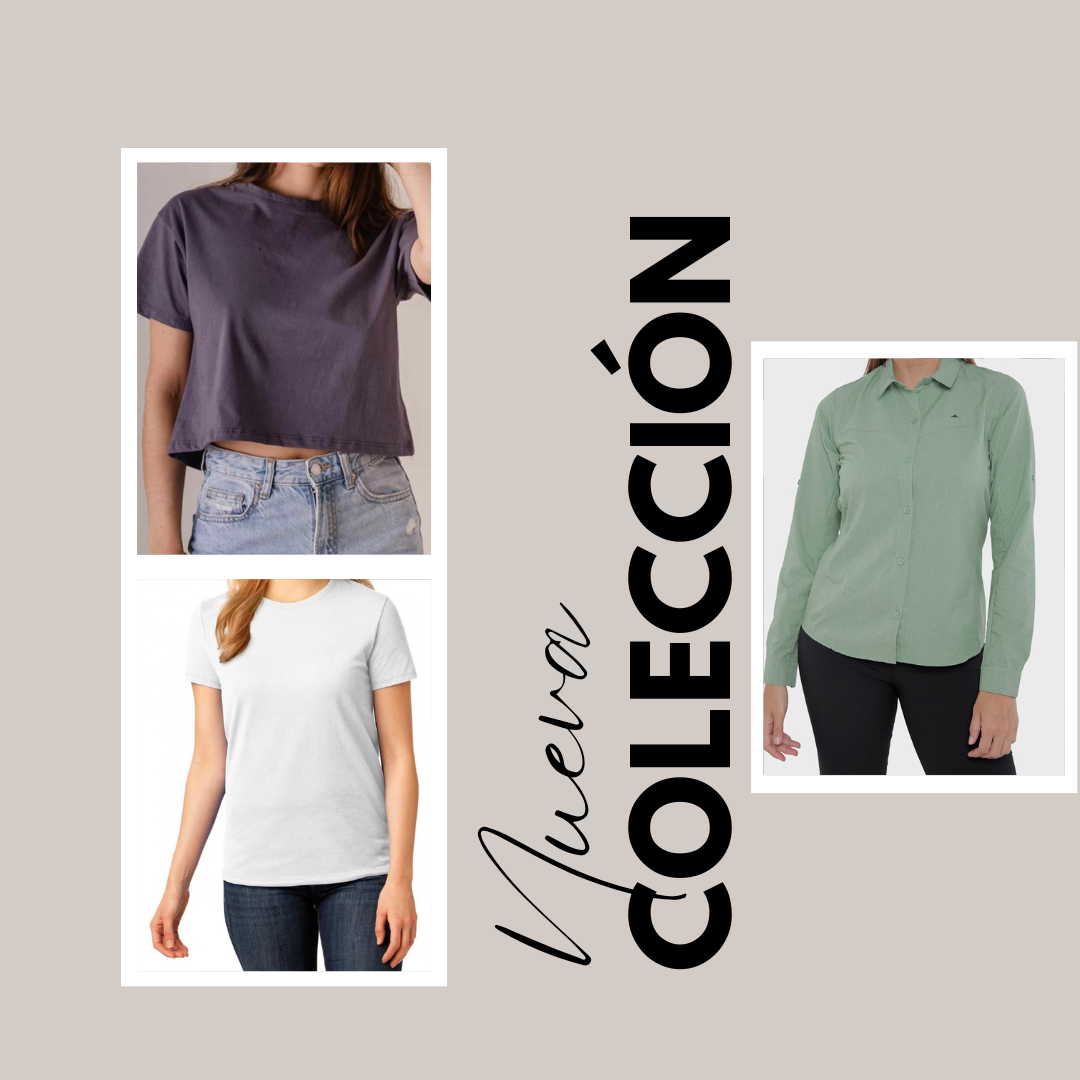
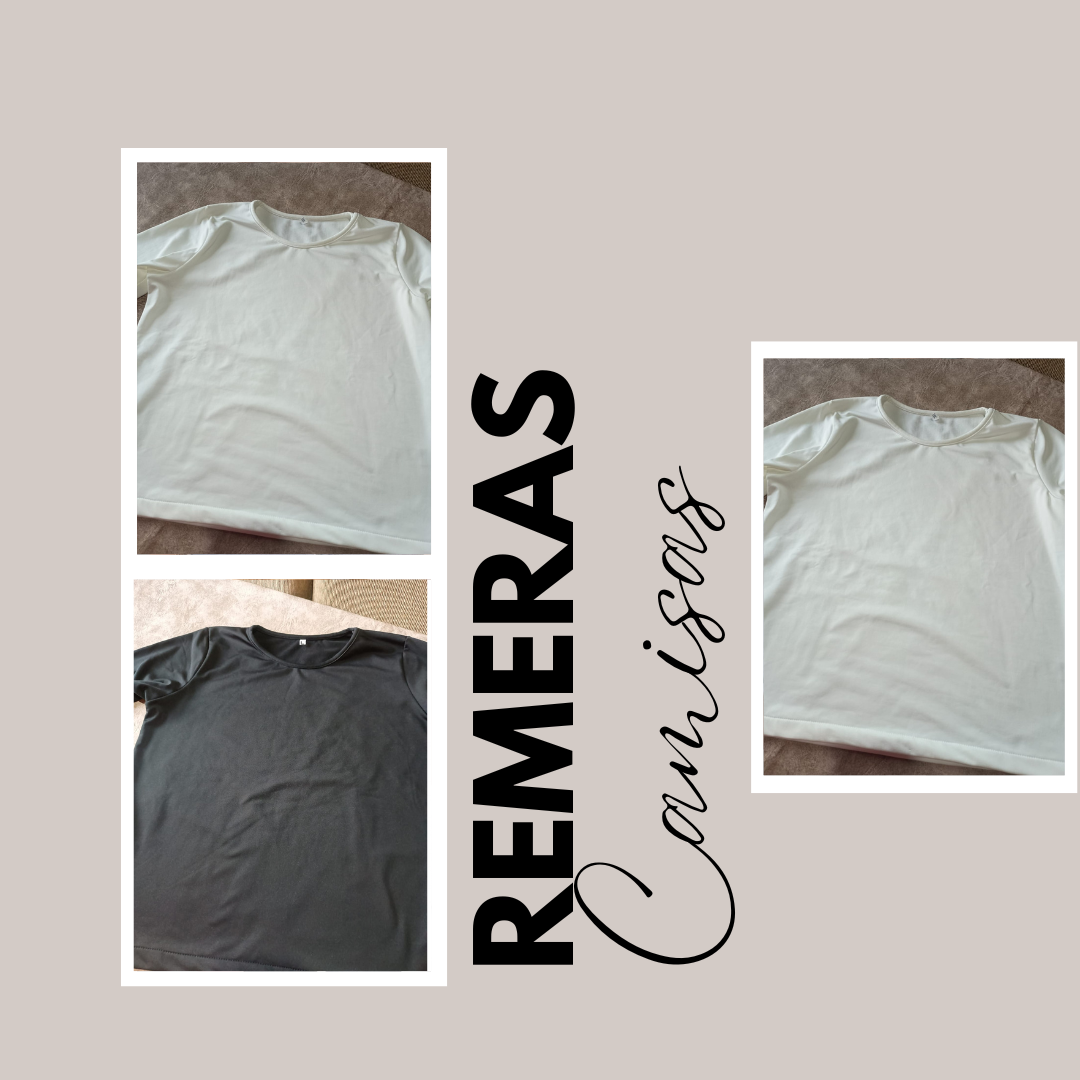
Agregamos más productos a la tienda,remeras

diff --git a/src/app/services/product.service.ts b/src/app/services/product.service.ts
@@ -962,22 +962,22 @@ export class ProductService {
       size: '1',
       category: 'Camisolin',
       image: 'camisolin_blanco_talle1.jpeg',
-      description: 'Camisolin blanco',
-      price: 1499,
+      description: 'Camisolin blanco de tul y encaje',
+      price: 15000,
       stock: 1,
       cantidad: 1
 
     },
     {
       id: 61,
-      name: 'Camisolin blanco',
+      name: 'Camisolin rojo',
       size: '1',
       category: 'Camisolin',
       image: 'camisolin_rojo_talle1.jpeg',
-      description: 'Camisolin blanco',
-      price: 1499,
-      stock: 10,
-      cantidad: 9
+      description: 'Camisolin rojo de tul y encaje',
+      price: 15000,
+      stock: 1,
+      cantidad: 1
 
     },
     //pijamas
@@ -987,7 +987,7 @@ export class ProductService {
       size: '3',
       category: 'Pijama',
       image: 'pijama_pant_polar_soft_verde_menta.jpeg',
-      description: 'Pijama pant polat soft',
+      description: 'Pijama pant polar soft',
       price: 15000,
       stock: 1,
       cantidad: 1
@@ -998,7 +998,7 @@ export class ProductService {
       size: '4',
       category: 'Pijama',
       image: 'pijama_pant_polar_soft_verde_menta.jpeg',
-      description: 'Pijama pant polat soft',
+      description: 'Pijama pant polar soft',
       price: 15000,
       stock: 1,
       cantidad: 1
@@ -1008,7 +1008,7 @@ export class ProductService {
     {
       id: 230,
       name: 'Ruana verde oscuro',
-      size: 'S',
+      size: '1',
       category: 'ruanas',
       image: 'ruana_verde.jpeg',
       description: 'Ruana lisa verde',
@@ -1019,7 +1019,7 @@ export class ProductService {
     {
       id: 231,
       name: 'Ruana gris',
-      size: 'S',
+      size: '1',
       category: 'ruanas',
       image: 'ruana_gris_lineas.jpeg',
       description: 'Ruana gris con rayas',
@@ -1030,7 +1030,7 @@ export class ProductService {
     {
       id: 232,
       name: 'Ruana gris',
-      size: 'S',
+      size: '1',
       category: 'ruanas',
       image: 'ruana_gris_lisa.jpeg',
       description: 'Ruana gris lisa',
@@ -1041,7 +1041,7 @@ export class ProductService {
     {
       id: 233,
       name: 'Ruana negra',
-      size: 'S',
+      size: '1',
       category: 'ruanas',
       image: 'ruana_negra_lisa.jpeg',
       description: 'Ruana negra lisa',
@@ -1052,7 +1052,7 @@ export class ProductService {
     {
       id: 234,
       name: 'Ruana rosa',
-      size: 'S',
+      size: '1',
       category: 'ruanas',
       image: 'ruana_rosa_lisa.jpeg',
       description: 'Ruana rosa lisa',
@@ -1063,7 +1063,7 @@ export class ProductService {
     {
       id: 235,
       name: 'Ruana celeste',
-      size: 'S',
+      size: '1',
       category: 'ruanas',
       image: 'ruana_celeste_lisa.jpeg',
       description: 'Ruana celeste lisa',
@@ -1074,7 +1074,7 @@ export class ProductService {
     {
       id: 236,
       name: 'Ruana verde',
-      size: 'S',
+      size: '1',
       category: 'ruanas',
       image: 'ruana_lisa_verde.jpeg',
       description: 'Ruana verde lisa',
@@ -1085,7 +1085,7 @@ export class ProductService {
     {
       id: 237,
       name: 'Ruana multicolor',
-      size: 'S',
+      size: '1',
       category: 'ruanas',
       image: 'ruana_multicolor.jpeg',
       description: 'Ruana verde, marron y blanca',
@@ -1096,7 +1096,7 @@ export class ProductService {
     {
       id: 238,
       name: 'Ruana gris',
-      size: 'S',
+      size: '1',
       category: 'ruanas',
       image: 'ruana_gris_rosado.jpeg',
       description: 'Ruana rosada, negra y blanca',
@@ -1107,7 +1107,7 @@ export class ProductService {
     {
       id: 239,
       name: 'Ruana multicolor',
-      size: 'S',
+      size: '1',
       category: 'ruanas',
       image: 'ruana_negra_blanca.jpeg',
       description: 'Ruana negra y blanca',
@@ -1118,7 +1118,7 @@ export class ProductService {
     {
       id: 240,
       name: 'Ruana multicolor',
-      size: 'S',
+      size: '1',
       category: 'ruanas',
       image: 'ruana_verde_negra_gris.jpeg',
       description: 'Ruana negra, blanca y turquesa',
@@ -1129,7 +1129,7 @@ export class ProductService {
     {
       id: 241,
       name: 'Ruana multicolor clara',
-      size: 'S',
+      size: '1',
       category: 'ruanas',
       image: 'ruana_clara.jpeg',
       description: 'Ruana gris, blanca y crema',
@@ -1221,6 +1221,51 @@ export class ProductService {
       category: 'sweaters',
       image: 'sweater_hilo_3_25000.jpeg',
       description: 'Sweater hilo',
+      price: 25000,
+      stock: 1,
+      cantidad: 1
+    },
+    //sacos
+    {
+      id: 290,
+      name: 'Saco rosa viejo',
+      size: '4',
+      category: 'sacos',
+      image: 'saco_paño_rosa_viejo_4_42000.jpeg',
+      description: 'Saco paño',
+      price: 42000,
+      stock: 1,
+      cantidad: 1
+    },
+    {
+      id: 291,
+      name: 'Camisaco blanco',
+      size: '4',
+      category: 'sacos',
+      image: 'camisaco_blanco_4_36000.jpeg',
+      description: 'Camisaco blanco',
+      price: 36000,
+      stock: 1,
+      cantidad: 1
+    },
+    {
+      id: 292,
+      name: 'Blazer blanco',
+      size: '1',
+      category: 'sacos',
+      image: 'Blazer_blanco_1_40000.jpeg',
+      description: 'Blazer blanco',
+      price: 40000,
+      stock: 1,
+      cantidad: 1
+    },
+    {
+      id: 293,
+      name: 'Sweater negro',
+      size: '1',
+      category: 'sacos',
+      image: 'sweater_lanilla_negro_1.jpeg',
+      description: 'Sweater de lanilla',
       price: 25000,
       stock: 1,
       cantidad: 1
@@ -1479,7 +1524,40 @@ export class ProductService {
       stock: 1,
       cantidad: 1
     },
-
+    //camisa, remera
+    {
+      id: 290,
+      name: 'Remera negra',
+      size: 'L',
+      category: 'remera',
+      image: 'remera_termica_negra_L_17000.jpeg',
+      description: 'Remera térmica',
+      price: 17000,
+      stock: 1,
+      cantidad: 1
+    },
+    {
+      id: 291,
+      name: 'Remera blanca',
+      size: 'M',
+      category: 'remera',
+      image: 'remera_termica_blanca_M_17000.jpeg',
+      description: 'Remera térmica',
+      price: 17000,
+      stock: 1,
+      cantidad: 1
+    },
+    {
+      id: 291,
+      name: 'Remera blanca',
+      size: 'L',
+      category: 'remera',
+      image: 'remera_termica_blanca_L_17000.jpeg',
+      description: 'Remera térmica',
+      price: 17000,
+      stock: 1,
+      cantidad: 1
+    },
 
     /*
     //medias, soquetes
@@ -1535,62 +1613,6 @@ export class ProductService {
       category: 'soquetes',
       image: 'niño2.png',
       description: 'Soquetes cómodos',
-      price: 1499,
-      stock: 10,
-      cantidad: 9
-    },
-    //camisa, remera
-    {
-      id: 77,
-      name: 'Producto 1',
-      size: 'S',
-      category: 'camisa',
-      image: 'camisa1.jpg',
-      description: 'Remera cómodas',
-      price: 1499,
-      stock: 1,
-      cantidad: 1
-    },
-    {
-      id: 78,
-      name: 'Producto 2',
-      size: 'M',
-      category: 'camisa',
-      image: 'camisa2.jpg',
-      description: 'Remera cómodas',
-      price: 1499,
-      stock: 10,
-      cantidad: 9
-    },
-    {
-      id: 79,
-      name: 'Producto 3',
-      size: 'L',
-      category: 'remera',
-      image: 'remera1.jpg',
-      description: 'Remera cómodas',
-      price: 1499,
-      stock: 10,
-      cantidad: 9
-    },
-    {
-      id: 80,
-      name: 'Producto 4',
-      size: 'XL',
-      category: 'remera',
-      image: 'remera2.jpg',
-      description: 'Remera cómodas',
-      price: 1499,
-      stock: 10,
-      cantidad: 9
-    },
-    {
-      id: 81,
-      name: 'Producto 5',
-      size: 'XXL',
-      category: 'camisa',
-      image: 'camisa3.jpg',
-      description: 'Camisa cómoda',
       price: 1499,
       stock: 10,
       cantidad: 9

diff --git a/src/app/components/remeras/remeras.component.html b/src/app/components/remeras/remeras.component.html
@@ -15,11 +15,11 @@
 <!-- Filtro por categoría -->
 <section class="filter-section">
   <div class="d-flex flex-wrap justify-content-center gap-2 my-2">
-    <button type="button" class="btn btn-dark" (click)="filterByCategory('camisa')">
-      Camisa
-    </button>
     <button type="button" class="btn btn-dark" (click)="filterByCategory('remera')">
       Remera
+    </button>
+    <button type="button" class="btn btn-dark" (click)="filterByCategory('camisa')">
+      Camisa
     </button>
     <button type="button" class="btn btn-dark" (click)="showAll()">
       Todos
@@ -30,11 +30,8 @@
 <!-- Filtro por talle -->
 <section class="filter-section">
   <div class="d-flex flex-wrap justify-content-center gap-2 my-2">
-    <button type="button" class="btn btn-dark" (click)="filterBySize('S')">S</button>
     <button type="button" class="btn btn-dark" (click)="filterBySize('M')">M</button>
     <button type="button" class="btn btn-dark" (click)="filterBySize('L')">L</button>
-    <button type="button" class="btn btn-dark" (click)="filterBySize('XL')">XL</button>
-    <button type="button" class="btn btn-dark" (click)="filterBySize('XXL')">XXL</button>
   </div>
 </section>
 
@@ -50,7 +47,7 @@
             <h5 class="card-title">{{ product.name }}</h5>
             <p><strong>Talle:</strong> {{ product.size }}</p>
             <p><strong>Descripción:</strong> {{ product.description }}</p>
-            <p><strong>Precio:</strong> ${{ product.price }}</p>  
+            <p><strong>Precio:</strong> ${{ product.price }}</p>
             <button class="btn btn-primary" *ngIf="product" [disabled]="product.stock <= 0"
               (click)="agregarAlCarritoffcanvas(product)" type="button" data-bs-toggle="offcanvas"
               data-bs-target="#offcanvasRight" aria-controls="offcanvasRight">

diff --git a/src/app/components/ruanas/ruanas.component.html b/src/app/components/ruanas/ruanas.component.html
@@ -33,9 +33,11 @@
 <!-- Filtro por talle -->
 <section class="filter-section">
   <div class="d-flex flex-wrap justify-content-center gap-2 my-2">
-    <button type="button" class="btn btn-dark" (click)="filterBySize('S')">S</button>
+    <button type="button" class="btn btn-dark" (click)="filterBySize('1')">1</button>
     <button type="button" class="btn btn-dark" (click)="filterBySize('2')">2</button>
     <button type="button" class="btn btn-dark" (click)="filterBySize('3')">3</button>
+    <button type="button" class="btn btn-dark" (click)="filterBySize('4')">4</button>
+
   </div>
 </section>
 
